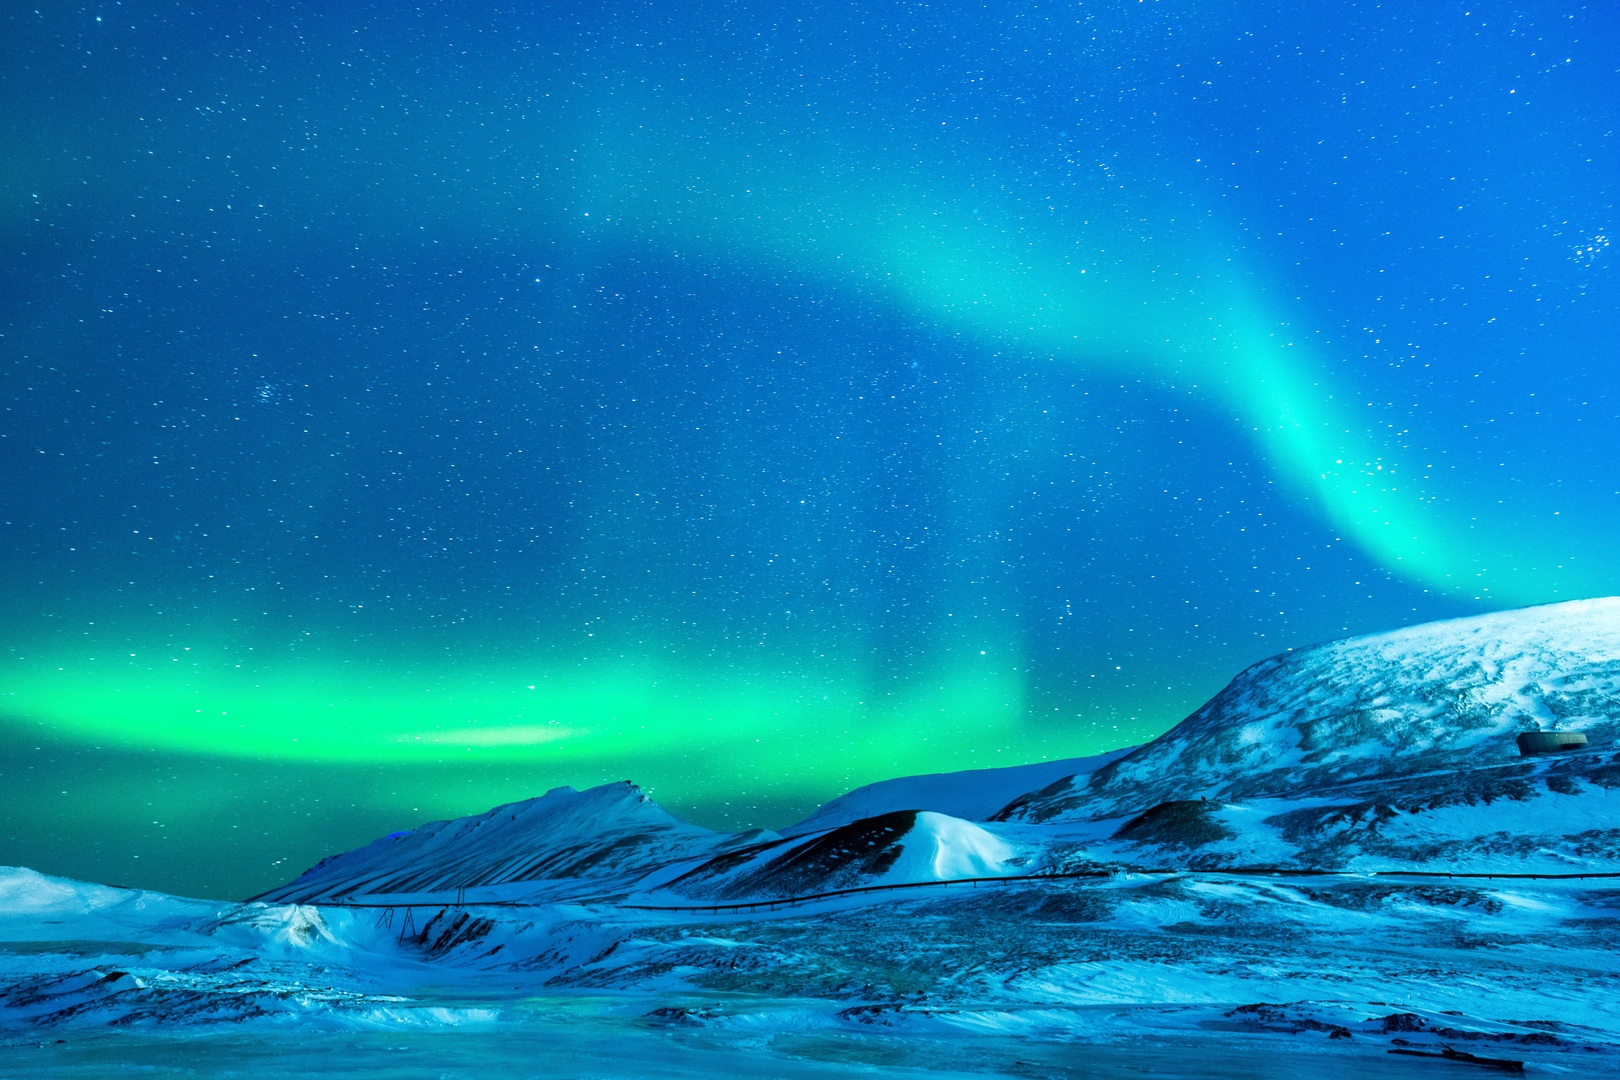
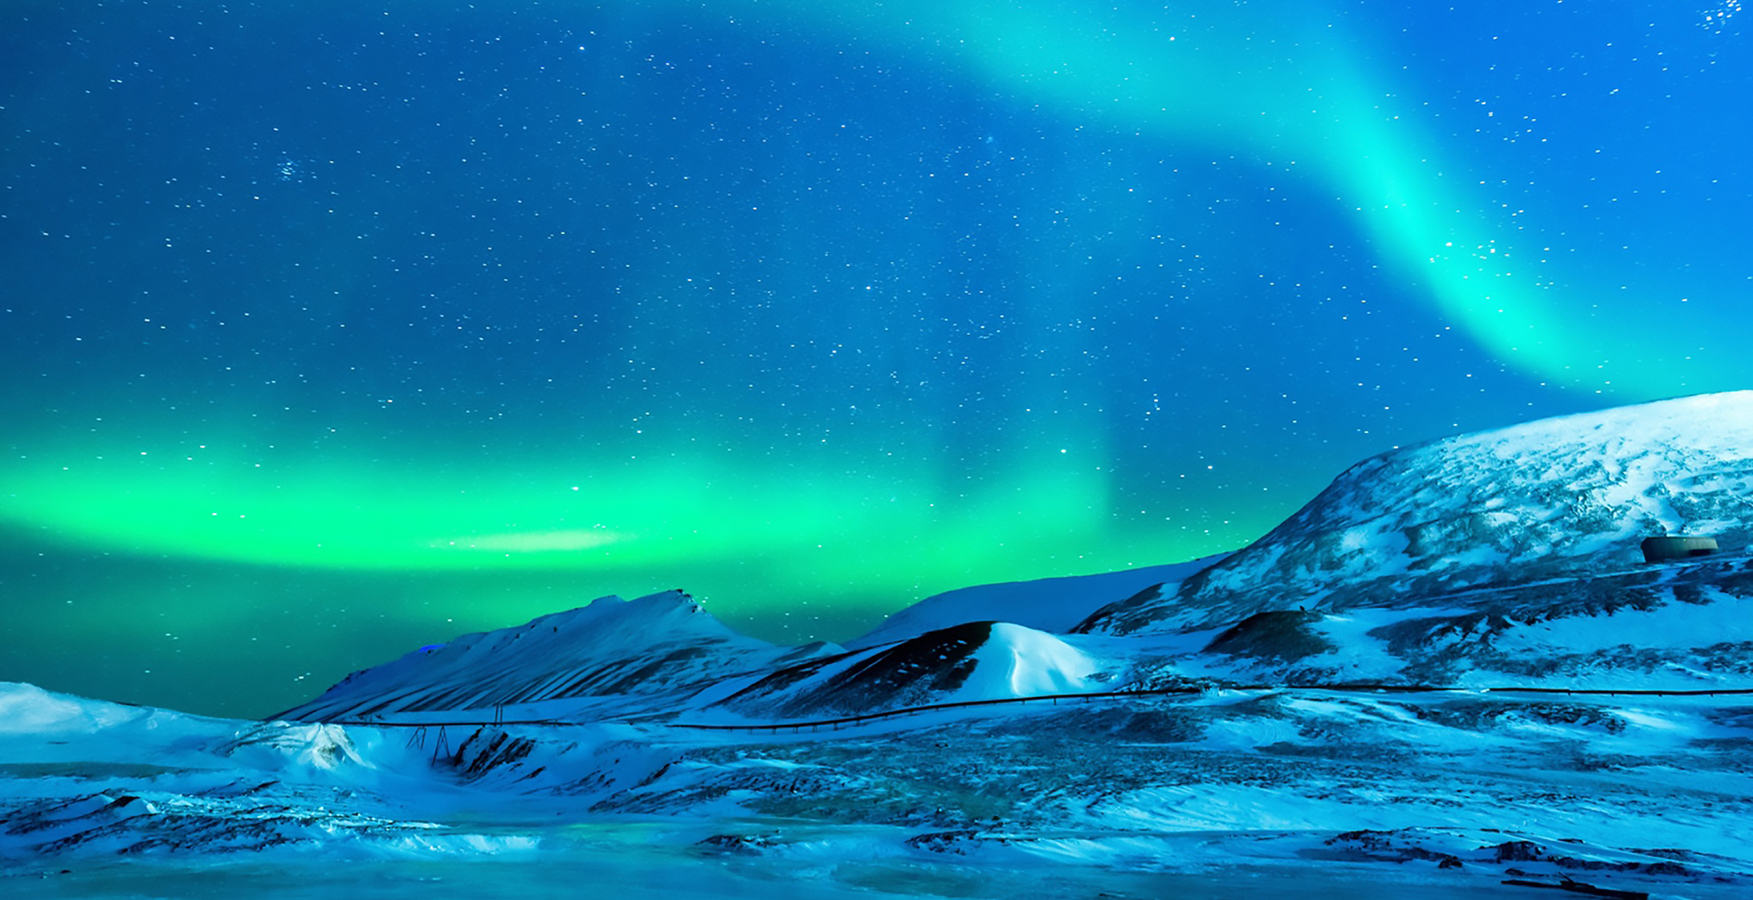
Novo projeto
Construção de site de viagens.

diff --git a/Minhas pesquisas/Site de viagem Timor-Leste/style.css b/Minhas pesquisas/Site de viagem Timor-Leste/style.css
@@ -1,0 +1,177 @@
+
+
+@import url(https://fonts.googleapis.com/css2?family=Montserrat:ital,wght@0,100..900;1,100..900&family=Passion+One:wght@400;700;900&family=Sriracha&display=swap);
+
+*{
+  margin: 0px;
+  padding: 0px;  
+}
+
+:root{
+    --fonte-padrao: 'Montserrat', cursive;
+}
+
+
+body{
+    font-family: var(--fonte-padrao);
+    background-color: white;
+}
+
+h2{
+    color: black;
+    text-align: center;
+    padding-top: 40px;
+    font-size: 30px;
+}
+
+header{
+    background: black url(landscape-nature-ocean-snow-night-atmosphere-823783-pxhere.com.jpg) no-repeat center;
+    height: 650px;
+    background-size: cover;
+    border-radius: 20px;
+    margin: 5px;
+}
+
+header > nav{
+    text-align: right;
+    padding-right: 20px;
+    padding-top: 10px;
+}
+
+header > nav > ul >li{
+    display: inline-block;
+    padding: 20px;
+    font-size: 1.2em;
+    font-weight: bold;    
+}
+
+a{
+    color:rgb(245, 245, 174);
+    text-decoration: none;    
+    
+}
+
+a:hover{
+    color: #0798F2;
+    text-decoration: none;
+}
+
+header > h1{
+    text-align: center;
+    font-weight: bold;
+    font-size: 75px;
+    color: rgb(245, 245, 174);
+    margin-top: 70px;
+    
+}
+
+header > p{
+    text-align: center;
+    color: rgb(245, 245, 174);
+    font-size: 30px;
+    padding: 30px;
+    font-style: italic;
+
+}
+
+header > div{
+    width: 100px;
+    margin: auto;
+    color: white;
+    
+
+}
+
+button{
+    font-size: 1.2em;
+    padding: 10px 0px;
+    color: #068BBF;
+    background-color:#0CF2DB;
+    border: 2px solid #0798F2;
+    border-radius: 5px;
+}
+
+
+ button:hover{
+    border: 2px solid rgba(255, 255, 255, 0.603);
+    transform: translate(3px, 3px);
+    box-shadow: 5px 5px 20px rgba(0, 0, 0, 0.651);
+    transition: transform 0.3s;
+ }
+
+ section#primeira{
+    margin: 5px;
+    border-radius: 20px;
+    background-color: rgb(252, 252, 225);
+    height: 500px;
+ }
+
+ section#segunda{
+    margin: 5px;
+    border-radius: 20px;
+    background-color: #0cf29e56;
+    height: 500px;
+ }
+
+ .container{
+    display: flex;
+    justify-content: space-evenly;
+    padding-top: 35px;
+    margin-right: 15%;
+    margin-left: 15%;
+ }
+ 
+ .promocao{
+    width: 250px;
+    height: 300px;
+    background-color:#0BC4D9;
+    border-radius: 25px 0px;
+ }
+
+ .lancamento{
+    width: 250px;
+    height: 300px;
+    background-color:#0BC4D9;
+    border-radius: 25px 0px;
+
+ }
+
+ .vagas{
+    width: 250px;
+    height: 300px;
+    background-color:#0BC4D9;
+    border-radius: 25px 0px;
+ }
+
+/* section 2*/
+
+.container2{
+    display: flex;
+    justify-content: space-evenly;
+    padding-top: 35px;
+    margin-right: 15%;
+    margin-left: 15%;
+ }
+ 
+ .tour{
+    width: 250px;
+    height: 300px;
+    background-color:#0BC4D9;
+    border-radius: 25px 0px;
+ }
+
+ .fotografia{
+    width: 250px;
+    height: 300px;
+    background-color:#0BC4D9;
+    border-radius: 25px 0px;
+
+ }
+
+ .aluguel{
+    width: 250px;
+    height: 300px;
+    background-color:#0BC4D9;
+    border-radius: 25px 0px;
+ }
+

diff --git a/Minhas pesquisas/Site de viagem Timor-Leste/index.html b/Minhas pesquisas/Site de viagem Timor-Leste/index.html
@@ -1,0 +1,61 @@
+<!DOCTYPE html>
+<html lang="pt-br">
+<head>
+    <meta charset="UTF-8">
+    <meta name="viewport" content="width=device-width, initial-scale=1.0">
+    <title>Viagens</title>
+    <link rel="stylesheet" href="style.css">
+</head>
+<body>
+    <header>
+
+    <nav>
+        <ul>
+            <li><a href="#">Home</a></li>
+            <li><a href="#">Pacote</a></li>
+            <li><a href="#">Serviços</a></li>
+            <li><a href="#">Contato</a></li>
+        </ul>      
+    </nav>
+
+    <h1>O Paraíso</h1>
+    <p>Ele está mais próximo do que você imagina!</p>
+    
+    <div class="botao">
+    <button>Saiba mais</button>
+    </div>
+
+    </header>
+
+    <main>
+        <section id="primeira">
+            <h2>Conheça nossos pacotes</h2>
+            <div class="container">
+                <div class="promocao">Promoção</div>
+                <div class="lancamento">Lançamento</div>
+                <div class="vagas">Últimas Vagas</div>
+            </div>
+        </section>
+        <section id="segunda">
+            <h2>Serviços</h2>
+                <div class="container2">
+                    <div class="tour">Tours Guiados</div>
+                    <div class="fotografia">Fotografia Profissional</div>
+                    <div class="aluguel">Aluguel de Veículos</div>
+                </div>
+        </section>
+    </main>
+
+    <footer>
+        <div class="endereco">Entre em Contato
+            <p>Rua Conde Bonfim, 250</p>
+            <p>contato@alanadami.com.br</p>
+            <p>+55 51 999999999</p>
+        </div>
+
+        <iframe src="https://www.google.com/maps/embed?pb=!1m18!1m12!1m3!1d63126.59070378097!2d125.52872674286684!3d-8.55632929269645!2m3!1f0!2f0!3f0!3m2!1i1024!2i768!4f13.1!3m3!1m2!1s0x2d01e70d32288115%3A0x3d9d6ee9546912d9!2sD%C3%ADli%2C%20Timor-Leste!5e0!3m2!1spt-BR!2sbr!4v1714490790115!5m2!1spt-BR!2sbr" width="600" height="450" style="border:0;" allowfullscreen="" loading="lazy" referrerpolicy="no-referrer-when-downgrade"></iframe>
+    </footer>
+
+
+</body>
+</html>
